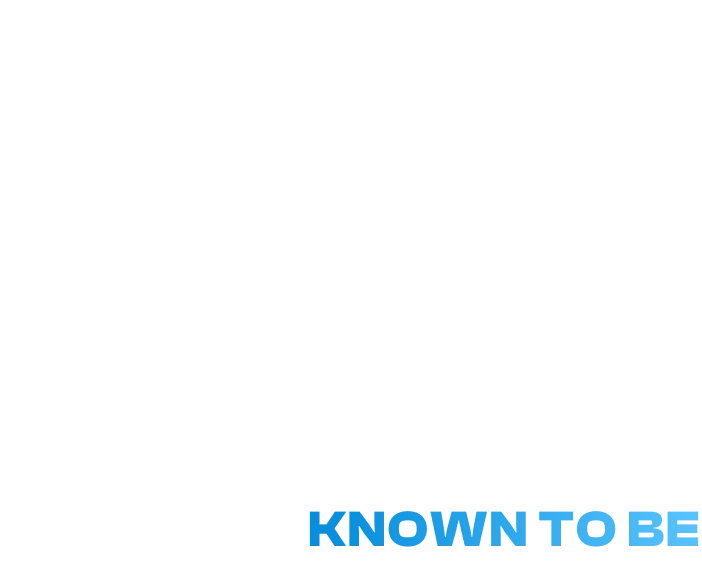
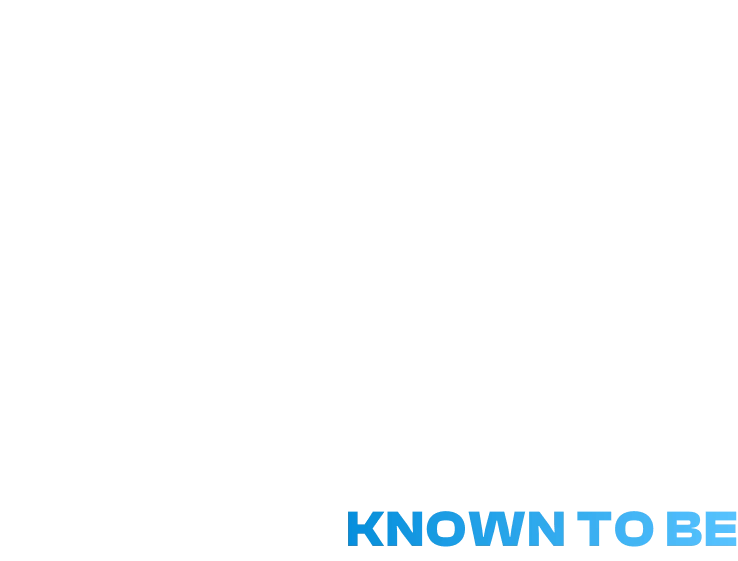
minor changes

Changed region(s): [[0.4188, 0.9091, 0.9573, 1.0], [0.9872, 0.9091, 1.0, 0.9697]]

diff --git a/src/Home/sections/aboutSection/components/intro.module.css b/src/Home/sections/aboutSection/components/intro.module.css
@@ -20,9 +20,10 @@
     font-size: 4.5rem;
 }
 
-.aboutSection .tagline span {
-    font-family: "Playfair Display", serif;
-    font-style: italic;
+.aboutSection .tagline .sciexpo {
+    width: 100%;
+    height: 5.5rem;
+    object-fit: contain;
 }
 
 .aboutSection .tag .boat {
@@ -81,6 +82,10 @@
         font-size: 3.5rem;
     }
 
+    .aboutSection .tagline .sciexpo {
+        height: 4.5rem;
+    }
+
     .aboutSection .vr {
         top: 10rem;
         left: 10rem;
@@ -124,6 +129,10 @@
         font-size: 2.2rem;
     }
 
+    .aboutSection .tagline .sciexpo {
+        height: 3rem;
+    }
+
     .aboutSection .img1 {
         top: -1.5rem;
         left: -1.5rem;
@@ -150,6 +159,10 @@
 @media(width<=600px) {
     .aboutSection .tagline {
         font-size: 2rem;
+    }
+
+    .aboutSection .tagline .sciexpo {
+        height: 2.8rem;
     }
 
     .aboutSection .vr {
@@ -183,6 +196,10 @@
         font-size: 1.8rem;
     }
 
+    .aboutSection .tagline .sciexpo {
+        height: 2.4rem;
+    }
+
     .aboutSection .vr {
         left: 1rem;
         width: 6rem;
@@ -200,7 +217,7 @@
 
     .aboutSection .img4 {
         top: -2rem;
-        right: 1rem;
-        width: 8rem;
+        right: -3rem;
+        width: 22rem;
     }
 }

diff --git a/src/Home/sections/aboutSection/components/intro.jsx b/src/Home/sections/aboutSection/components/intro.jsx
@@ -5,6 +5,7 @@ import art from '../../../../assets/image 5.webp'
 import boat from '../../../../assets/image 7.webp'
 import earth from '../../../../assets/earth.webm'
 import vr from '../../../../assets/vr.webp'
+import sciexpo from '../../../../assets/sci-expo.webp' 
 
 import { useRef } from "react";
 import gsap from "gsap";
@@ -128,7 +129,7 @@ export default function Intro() {
                     <div ref={tag} ></div>
                     BEAUTY OF HUMAN <br />
                     CREATIVITY AT OUR <br />
-                    <span>SCIENCE EXPO</span>
+                    <img className={styles.sciexpo} src={sciexpo} alt="science-expo" />
                 </p>
                 <img ref={m3} className={styles.boat} src={boat} alt="ref-img" />
             </div>
